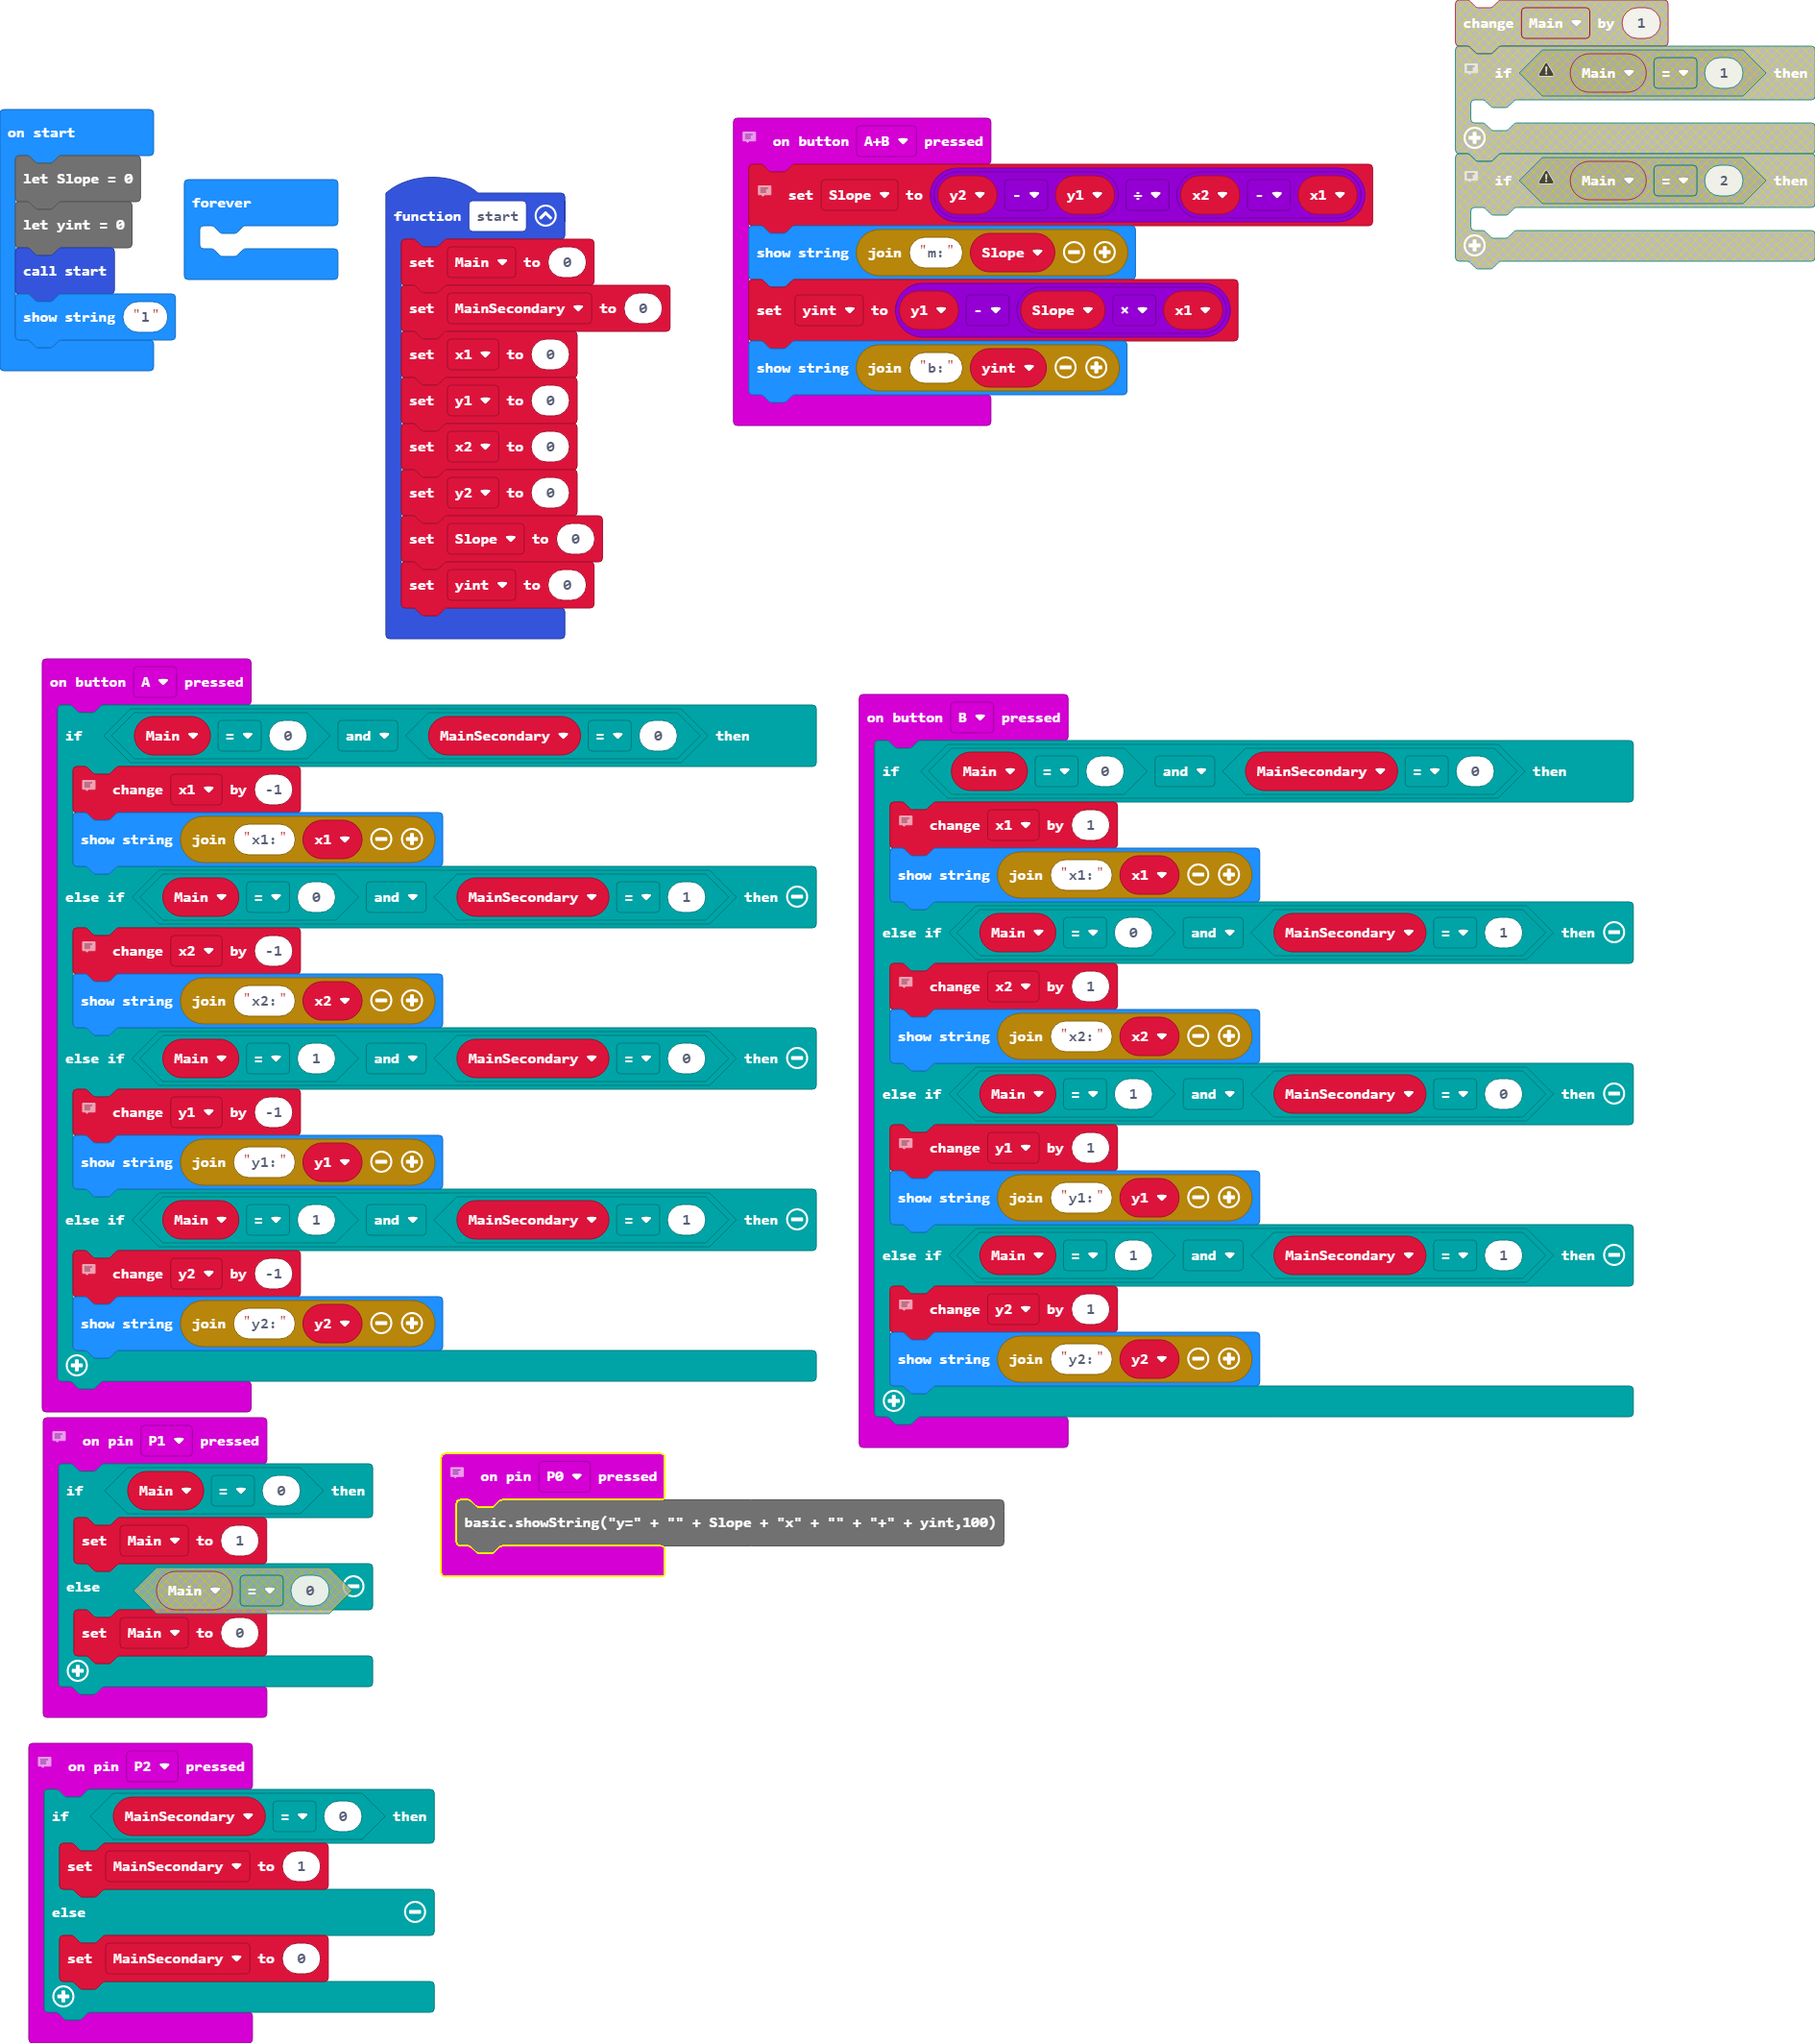
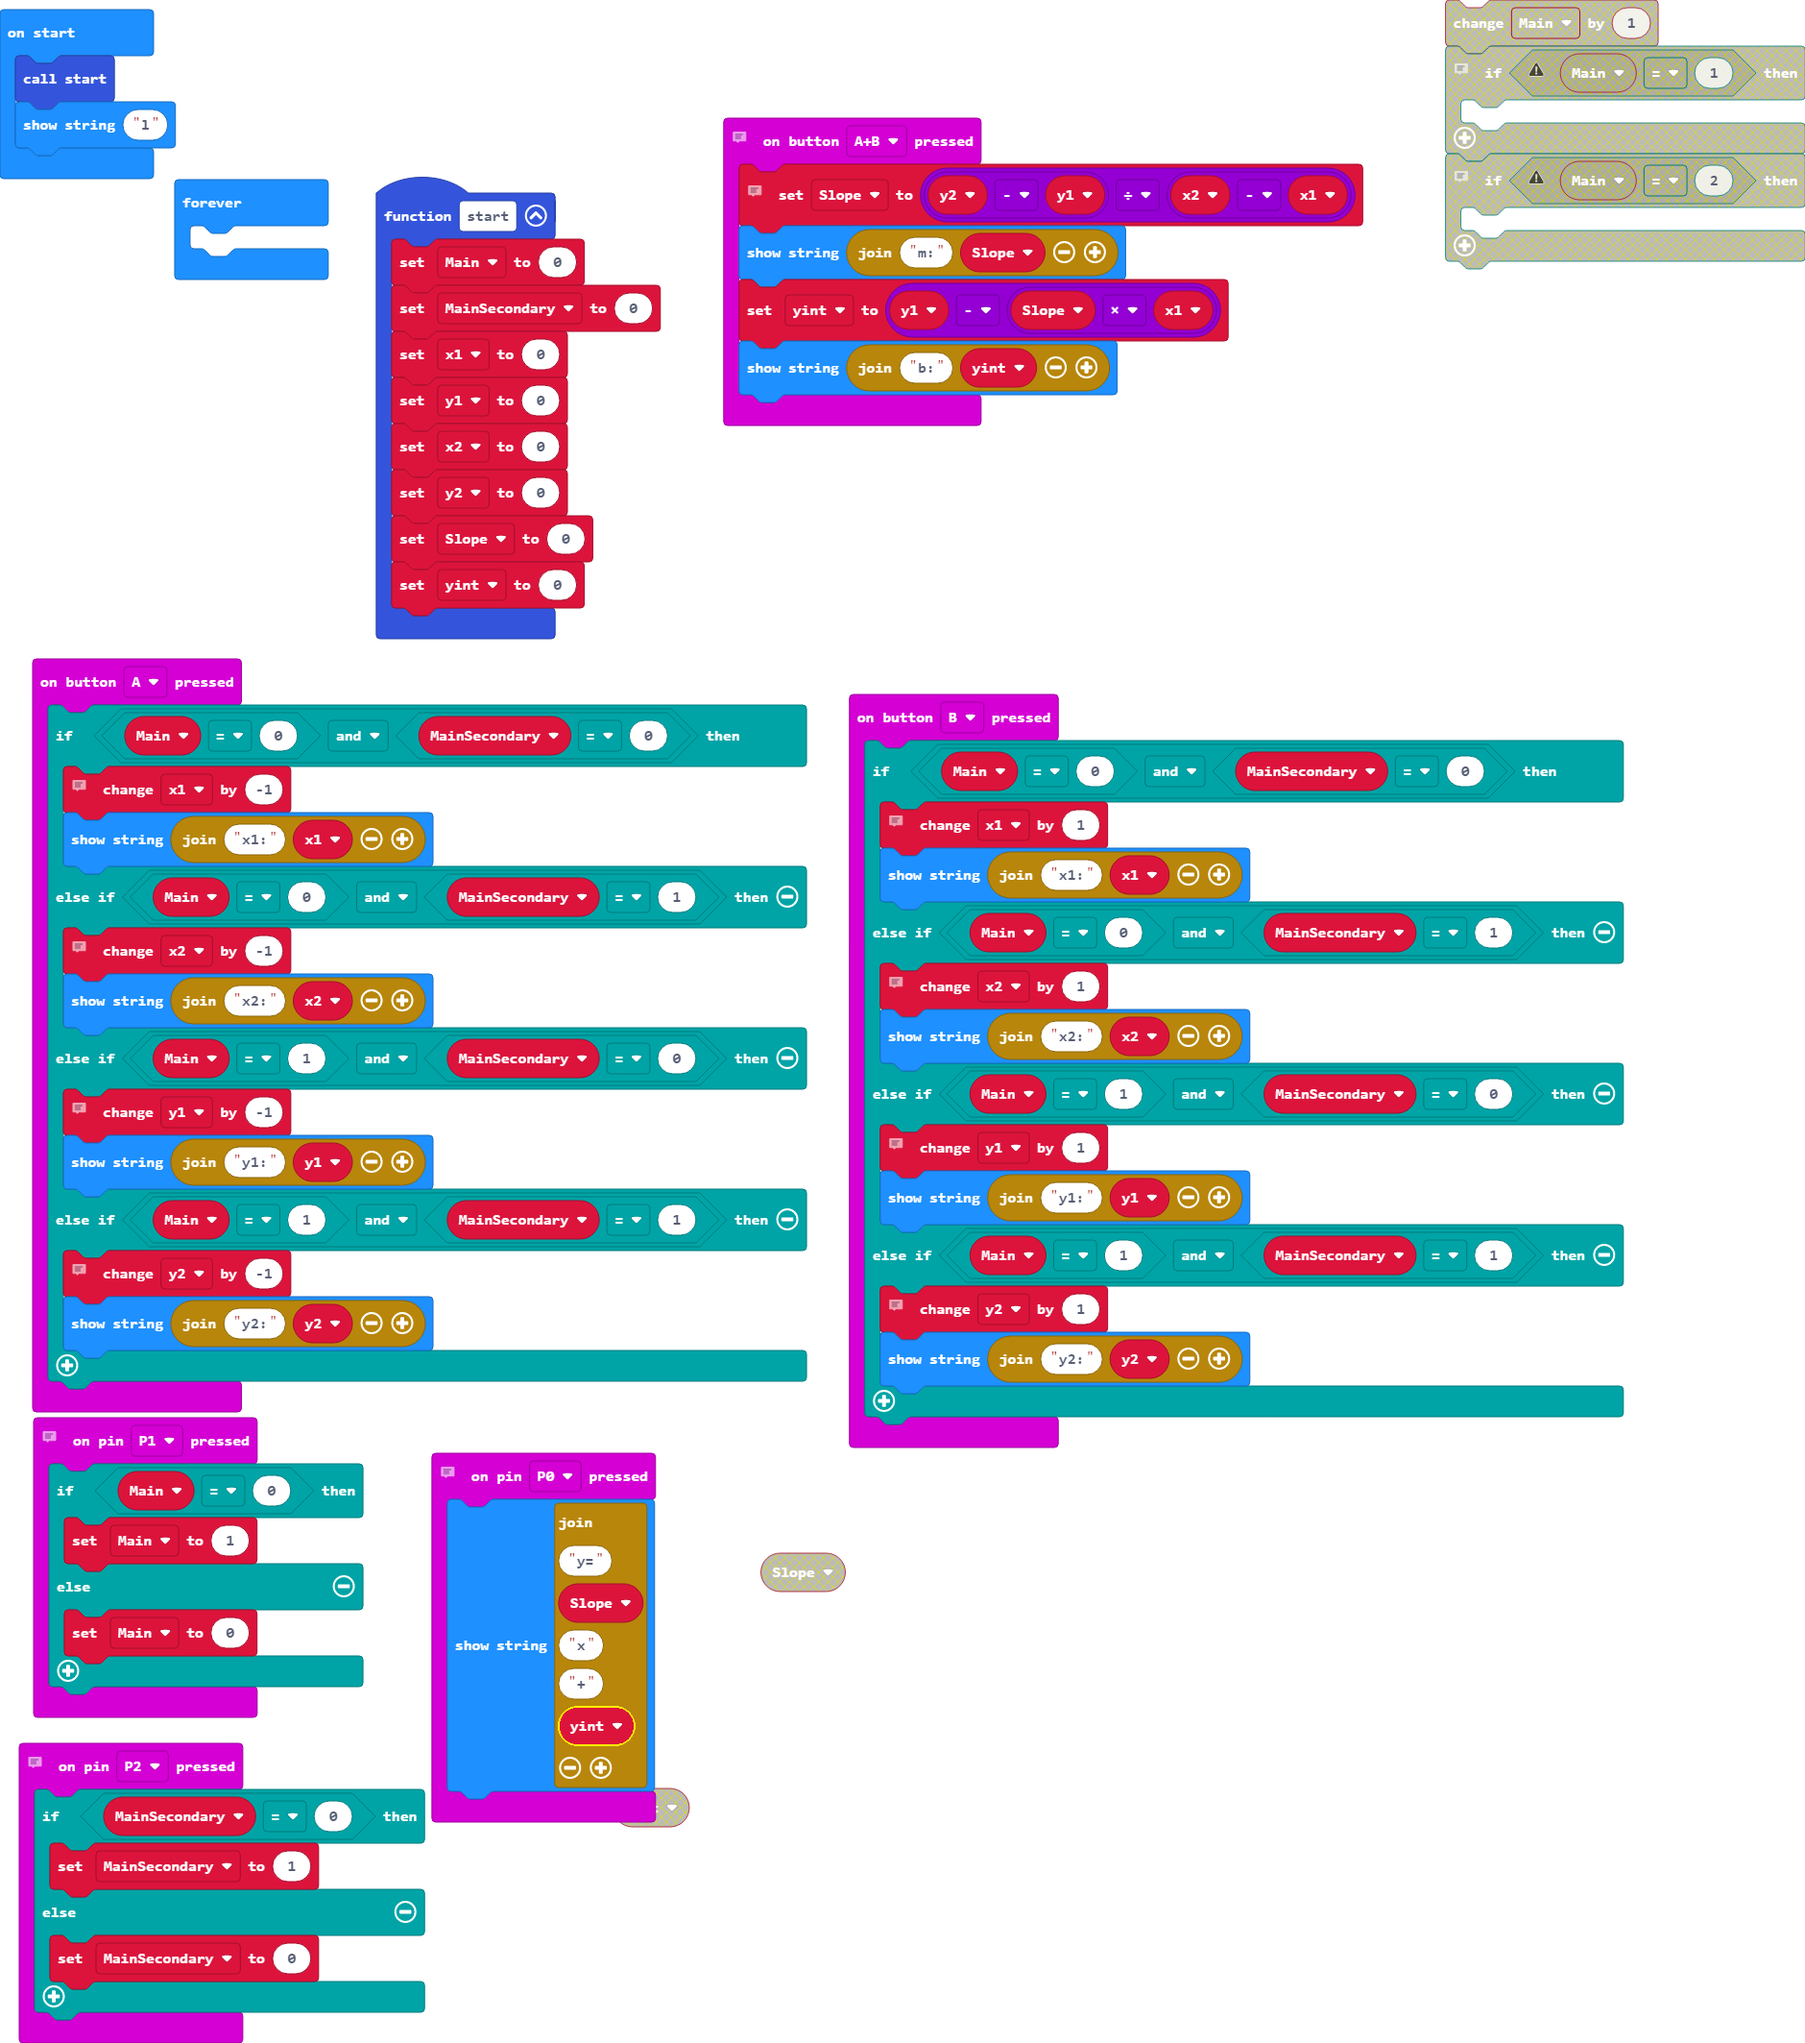
Changed final print function

diff --git a/main.ts b/main.ts
@@ -1,6 +1,6 @@
 // Show end calculation (final result of y=mx+b)
 input.onPinPressed(TouchPin.P0, function () {
-    basic.showString("y=" + "" + Slope + "x" + "" + "+" + yint,100)
+    basic.showString("y=" + Slope + "x" + "+" + yint)
 })
 input.onButtonPressed(Button.A, function () {
     if (Main == 0 && MainSecondary == 0) {
@@ -82,8 +82,8 @@ let x2 = 0
 let x1 = 0
 let MainSecondary = 0
 let Main = 0
-let Slope = 0
 let yint = 0
+let Slope = 0
 start()
 basic.showString("l")
 basic.forever(function () {
